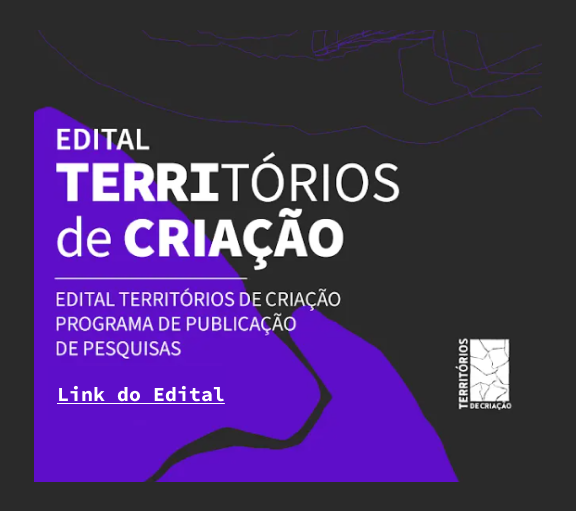
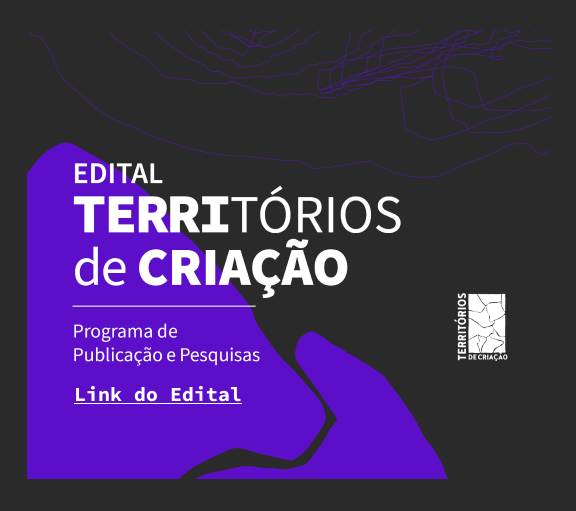
troca de img na pag editais e link na pag quem somos

diff --git a/edtais.html b/edtais.html
@@ -145,7 +145,7 @@
     </video>
   </div>
     <h4 class="title">Comida <span class="titleSpan">de Santo,</span> <span class="titleSpan2">é pra toda gente</span> </h4>
-    <p>Idealizado por Kelma de Ìyemonja, “Comida de santo é pra toda a gente” é um documentário que compreende a comunhão com o sagrado através da comida. Tem o objetivo também de demonstrar que a cultura alimentar de matrizes africanas é democrática e faz parte das mesas dos brasileiros. Estreia: 14/07</p>
+    <p>Idealizado por Kelma de Ìyemonja, “Comida de santo é pra toda a gente” é um documentário que compreende a comunhão com o sagrado através da comida. Tem o objetivo também de demonstrar que a cultura alimentar de matrizes africanas é democrática e faz parte das mesas dos brasileiros.Estreia: 14/07</p>
   </div>
 
   <div class="card">
@@ -156,7 +156,7 @@
     </video>
     </div>
     <h4 class="title">Ritmos <span class="titleSpan"> Africanos,</span> <span class="titleSpan2">música brasileira</span> </h4>
-    <p>Idealizado por Kelma de Ìyemonja, “Comida de santo é pra toda a gente” é um documentário que compreende a comunhão com o sagrado através da comida. Tem o objetivo também de demonstrar que a cultura alimentar de matrizes africanas é democrática e faz parte das mesas dos brasileiros. Estreia: 14/07</p>
+    <p>Idealizado por Kelma de Ìyemonja, “Comida de santo é pra toda a gente” é um documentário que compreende a comunhão com o sagrado através da comida. Tem o objetivo também de demonstrar que a cultura alimentar de matrizes africanas é democrática e faz parte das mesas dos brasileiros.Estreia: 14/07</p>
   </div>
   <div class="card">
     <div class="videos">
@@ -166,7 +166,7 @@
     </video>
     </div>
     <h4 class="title">A Ciência <span class="titleSpan"></span>no galho, <span class="titleSpan2">da fé</span> </h4>
-    <p>Idealizado por Kelma de Ìyemonja, “Comida de santo é pra toda a gente” é um documentário que compreende a comunhão com o sagrado através da comida. Tem o objetivo também de demonstrar que a cultura alimentar de matrizes africanas é democrática e faz parte das mesas dos brasileiros. Estreia: 14/07</p>
+    <p>Idealizado por Kelma de Ìyemonja, “Comida de santo é pra toda a gente” é um documentário que compreende a comunhão com o sagrado através da comida. Tem o objetivo também de demonstrar que a cultura alimentar de matrizes africanas é democrática e faz parte das mesas dos brasileiros.Estreia: 14/07</p>
   </div>
   <div class="card">
     <div class="videos">
@@ -176,7 +176,7 @@
     </video>
     </div>
     <h4 class="title">Cartas <span class="titleSpan"> Ciganas,</span> <span class="titleSpan2"> para Mariele</span> </h4>
-    <p>Idealizado por Kelma de Ìyemonja, “Comida de santo é pra toda a gente” é um documentário que compreende a comunhão com o sagrado através da comida. Tem o objetivo também de demonstrar que a cultura alimentar de matrizes africanas é democrática e faz parte das mesas dos brasileiros. Estreia: 14/07</p>
+    <p>Idealizado por Kelma de Ìyemonja, “Comida de santo é pra toda a gente” é um documentário que compreende a comunhão com o sagrado através da comida. Tem o objetivo também de demonstrar que a cultura alimentar de matrizes africanas é democrática e faz parte das mesas dos brasileiros.Estreia: 14/07</p>
   </div> -->
 </section>
 

diff --git a/quemsomos.html b/quemsomos.html
@@ -123,15 +123,18 @@
 
   <section class="patrocinio">
 
+    <a href="">
     <figure>
+      
       <img class="imgDesk"
       src="assets/patrocinio.png" alt="Logo dos patrocinadores" srcset="">
     </figure>
 
+  <a href="https://territoriosdecriacao.wordpress.com/sobre/" class="imgMb" target="_blank">
     <figure>
-      <img src="assets/component42.png" alt="" class="imgMb">
+      <img src="assets/component42.png" alt="" >
     </figure>
-
+  </a>
 
 
   </section>
